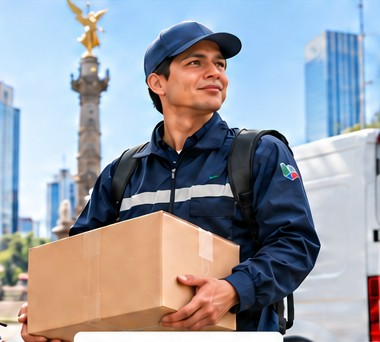
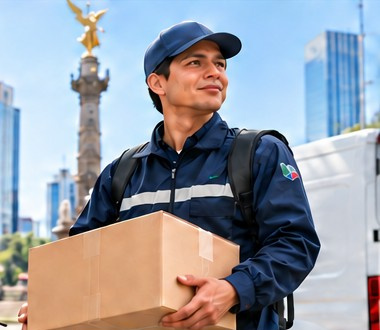
fix: re-crop hero photo to 380x330 to remove white strip

diff --git a/tests/e2e/pages.spec.ts b/tests/e2e/pages.spec.ts
@@ -386,7 +386,7 @@ test.describe('photography', () => {
     await expect(img).toHaveAttribute('loading', 'eager');
     await expect(img).toHaveAttribute('fetchpriority', 'high');
     await expect(img).toHaveAttribute('width', '380');
-    await expect(img).toHaveAttribute('height', '342');
+    await expect(img).toHaveAttribute('height', '330');
     await expect(img).toHaveAttribute(
       'alt',
       'Repartidor de Logispack con un paquete frente al Ángel de la Independencia',

diff --git a/src/lib/photos.ts b/src/lib/photos.ts
@@ -16,7 +16,7 @@ export type PhotoSlot = 'hero' | 'nosotros';
  * source photos are low resolution: size every slot at or below its native width.
  */
 export const photos: Partial<Record<PhotoSlot, Photo>> = {
-  // Native size 380x342: never render this slot wider than 380px.
+  // Native size 380x330: never render this slot wider than 380px.
   hero: {
     image: courierHero,
     alt: 'Repartidor de Logispack con un paquete frente al Ángel de la Independencia',
